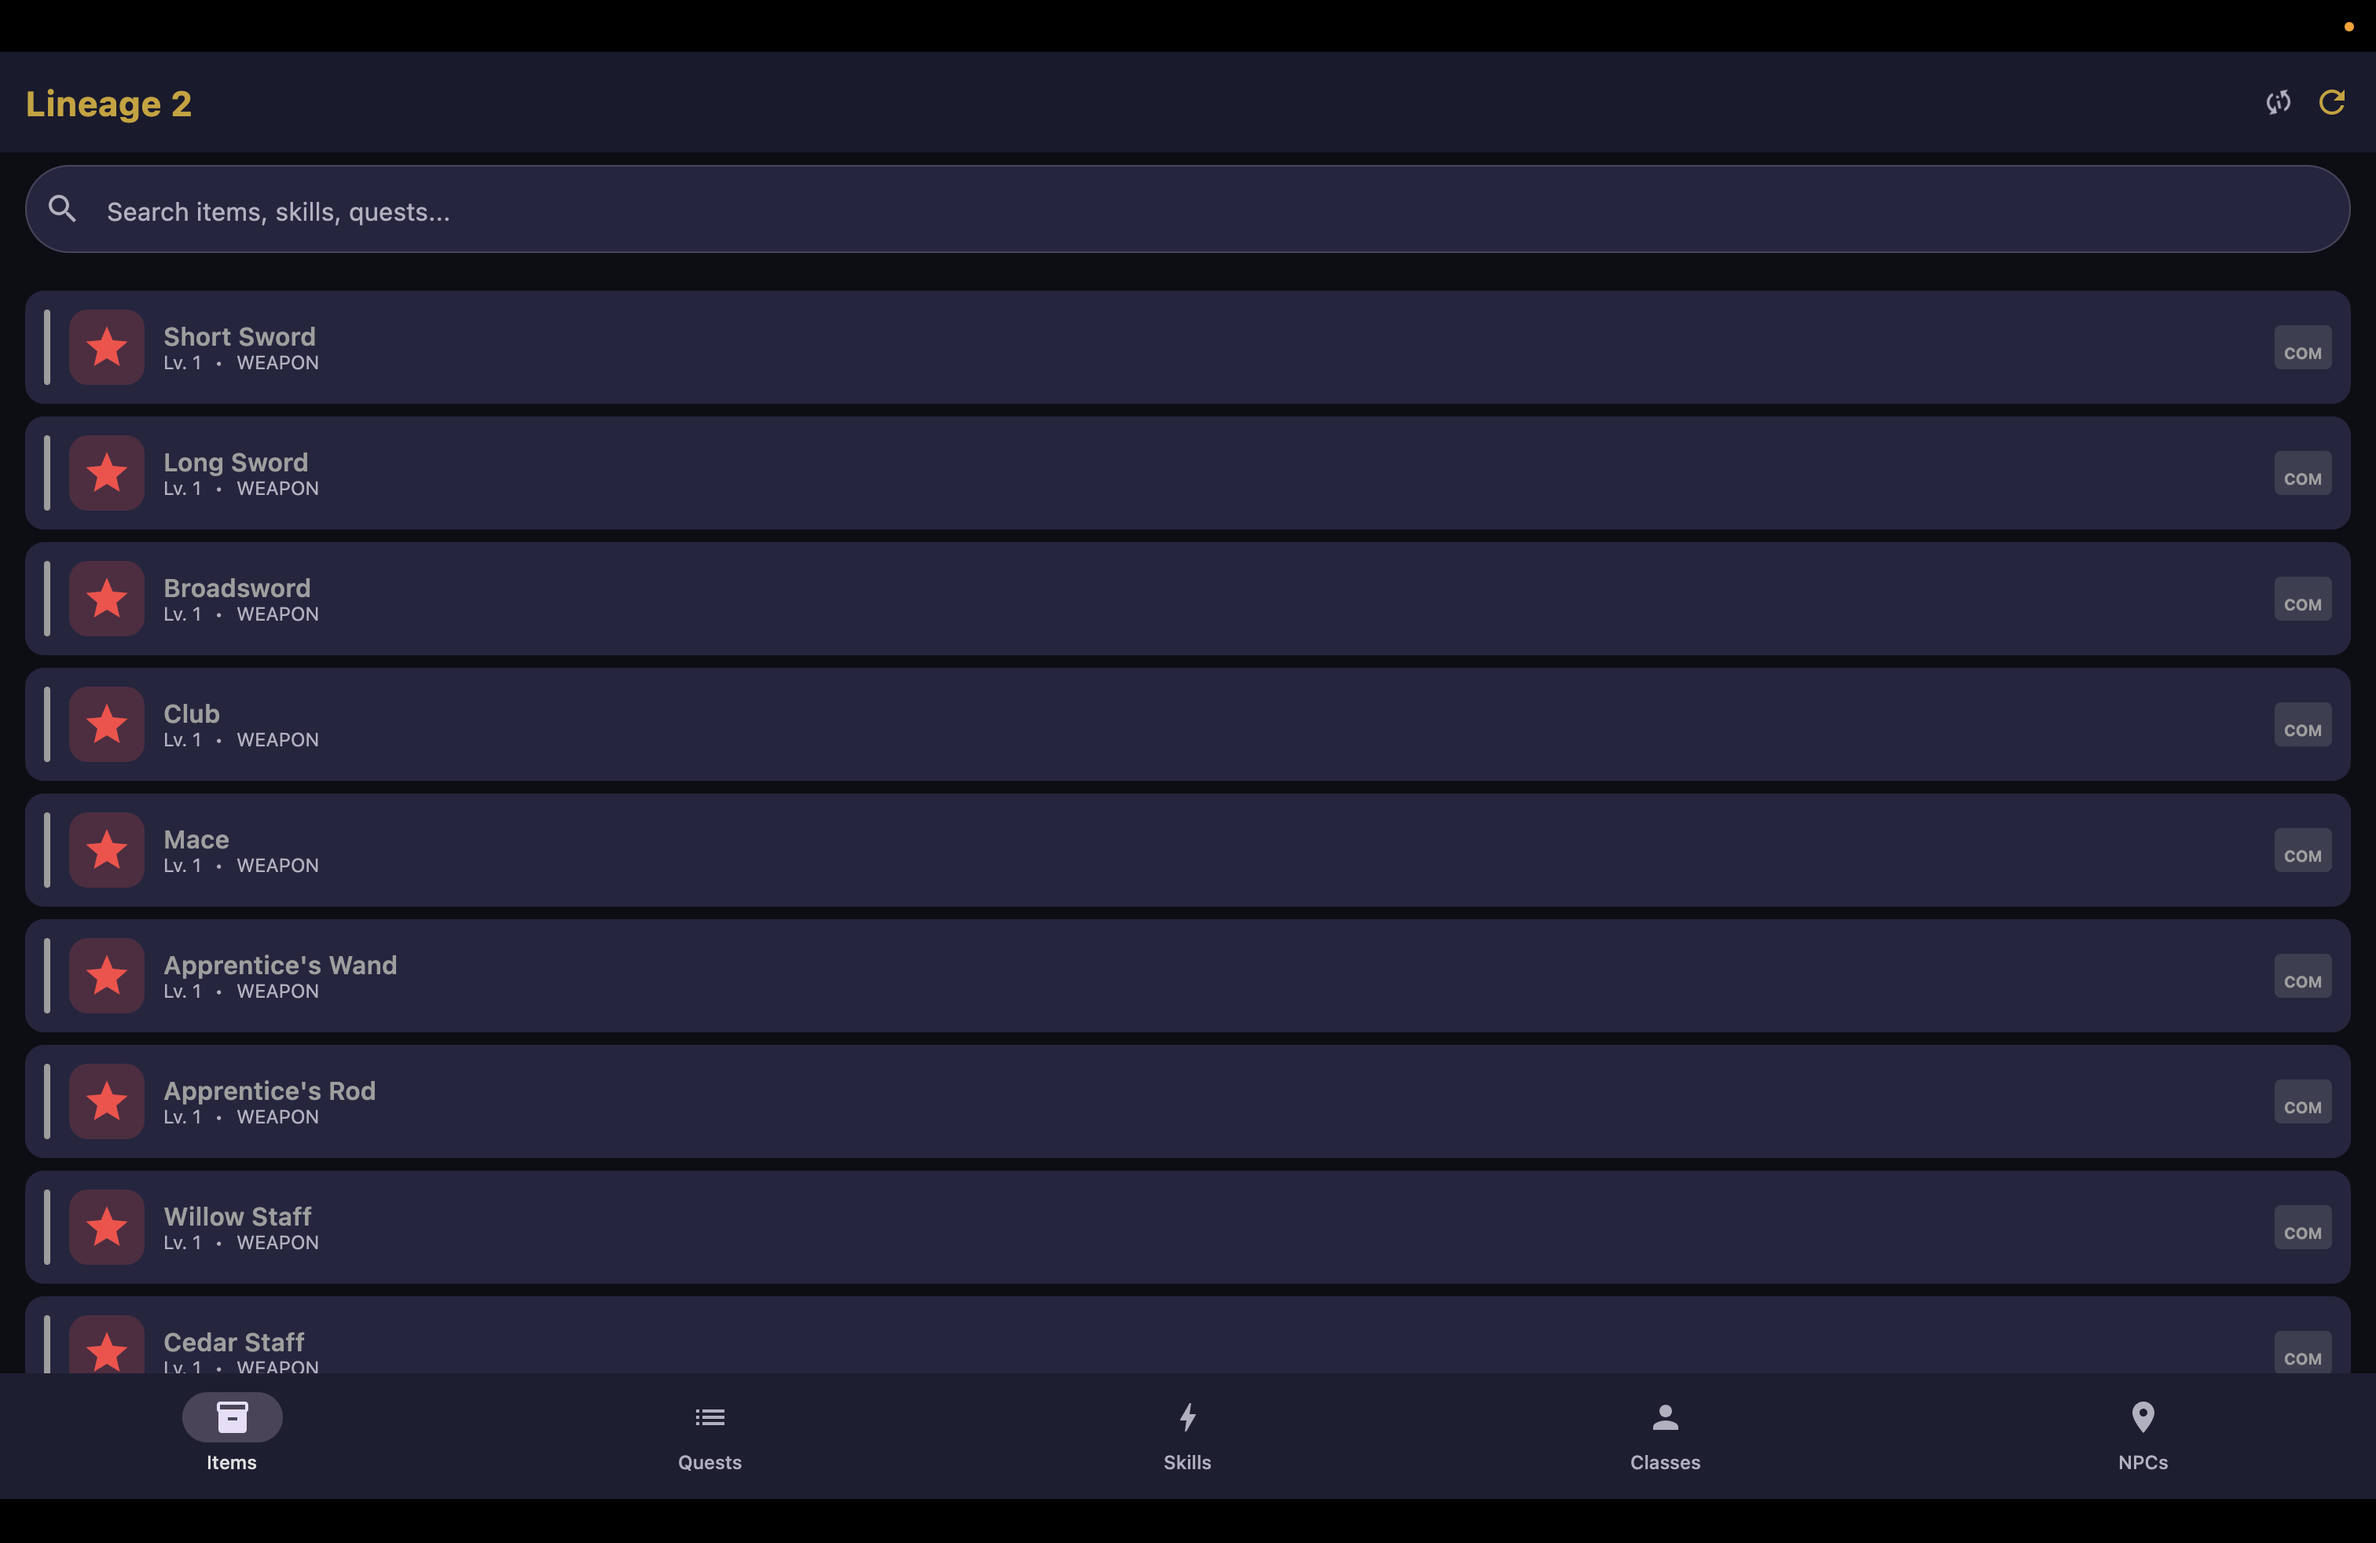
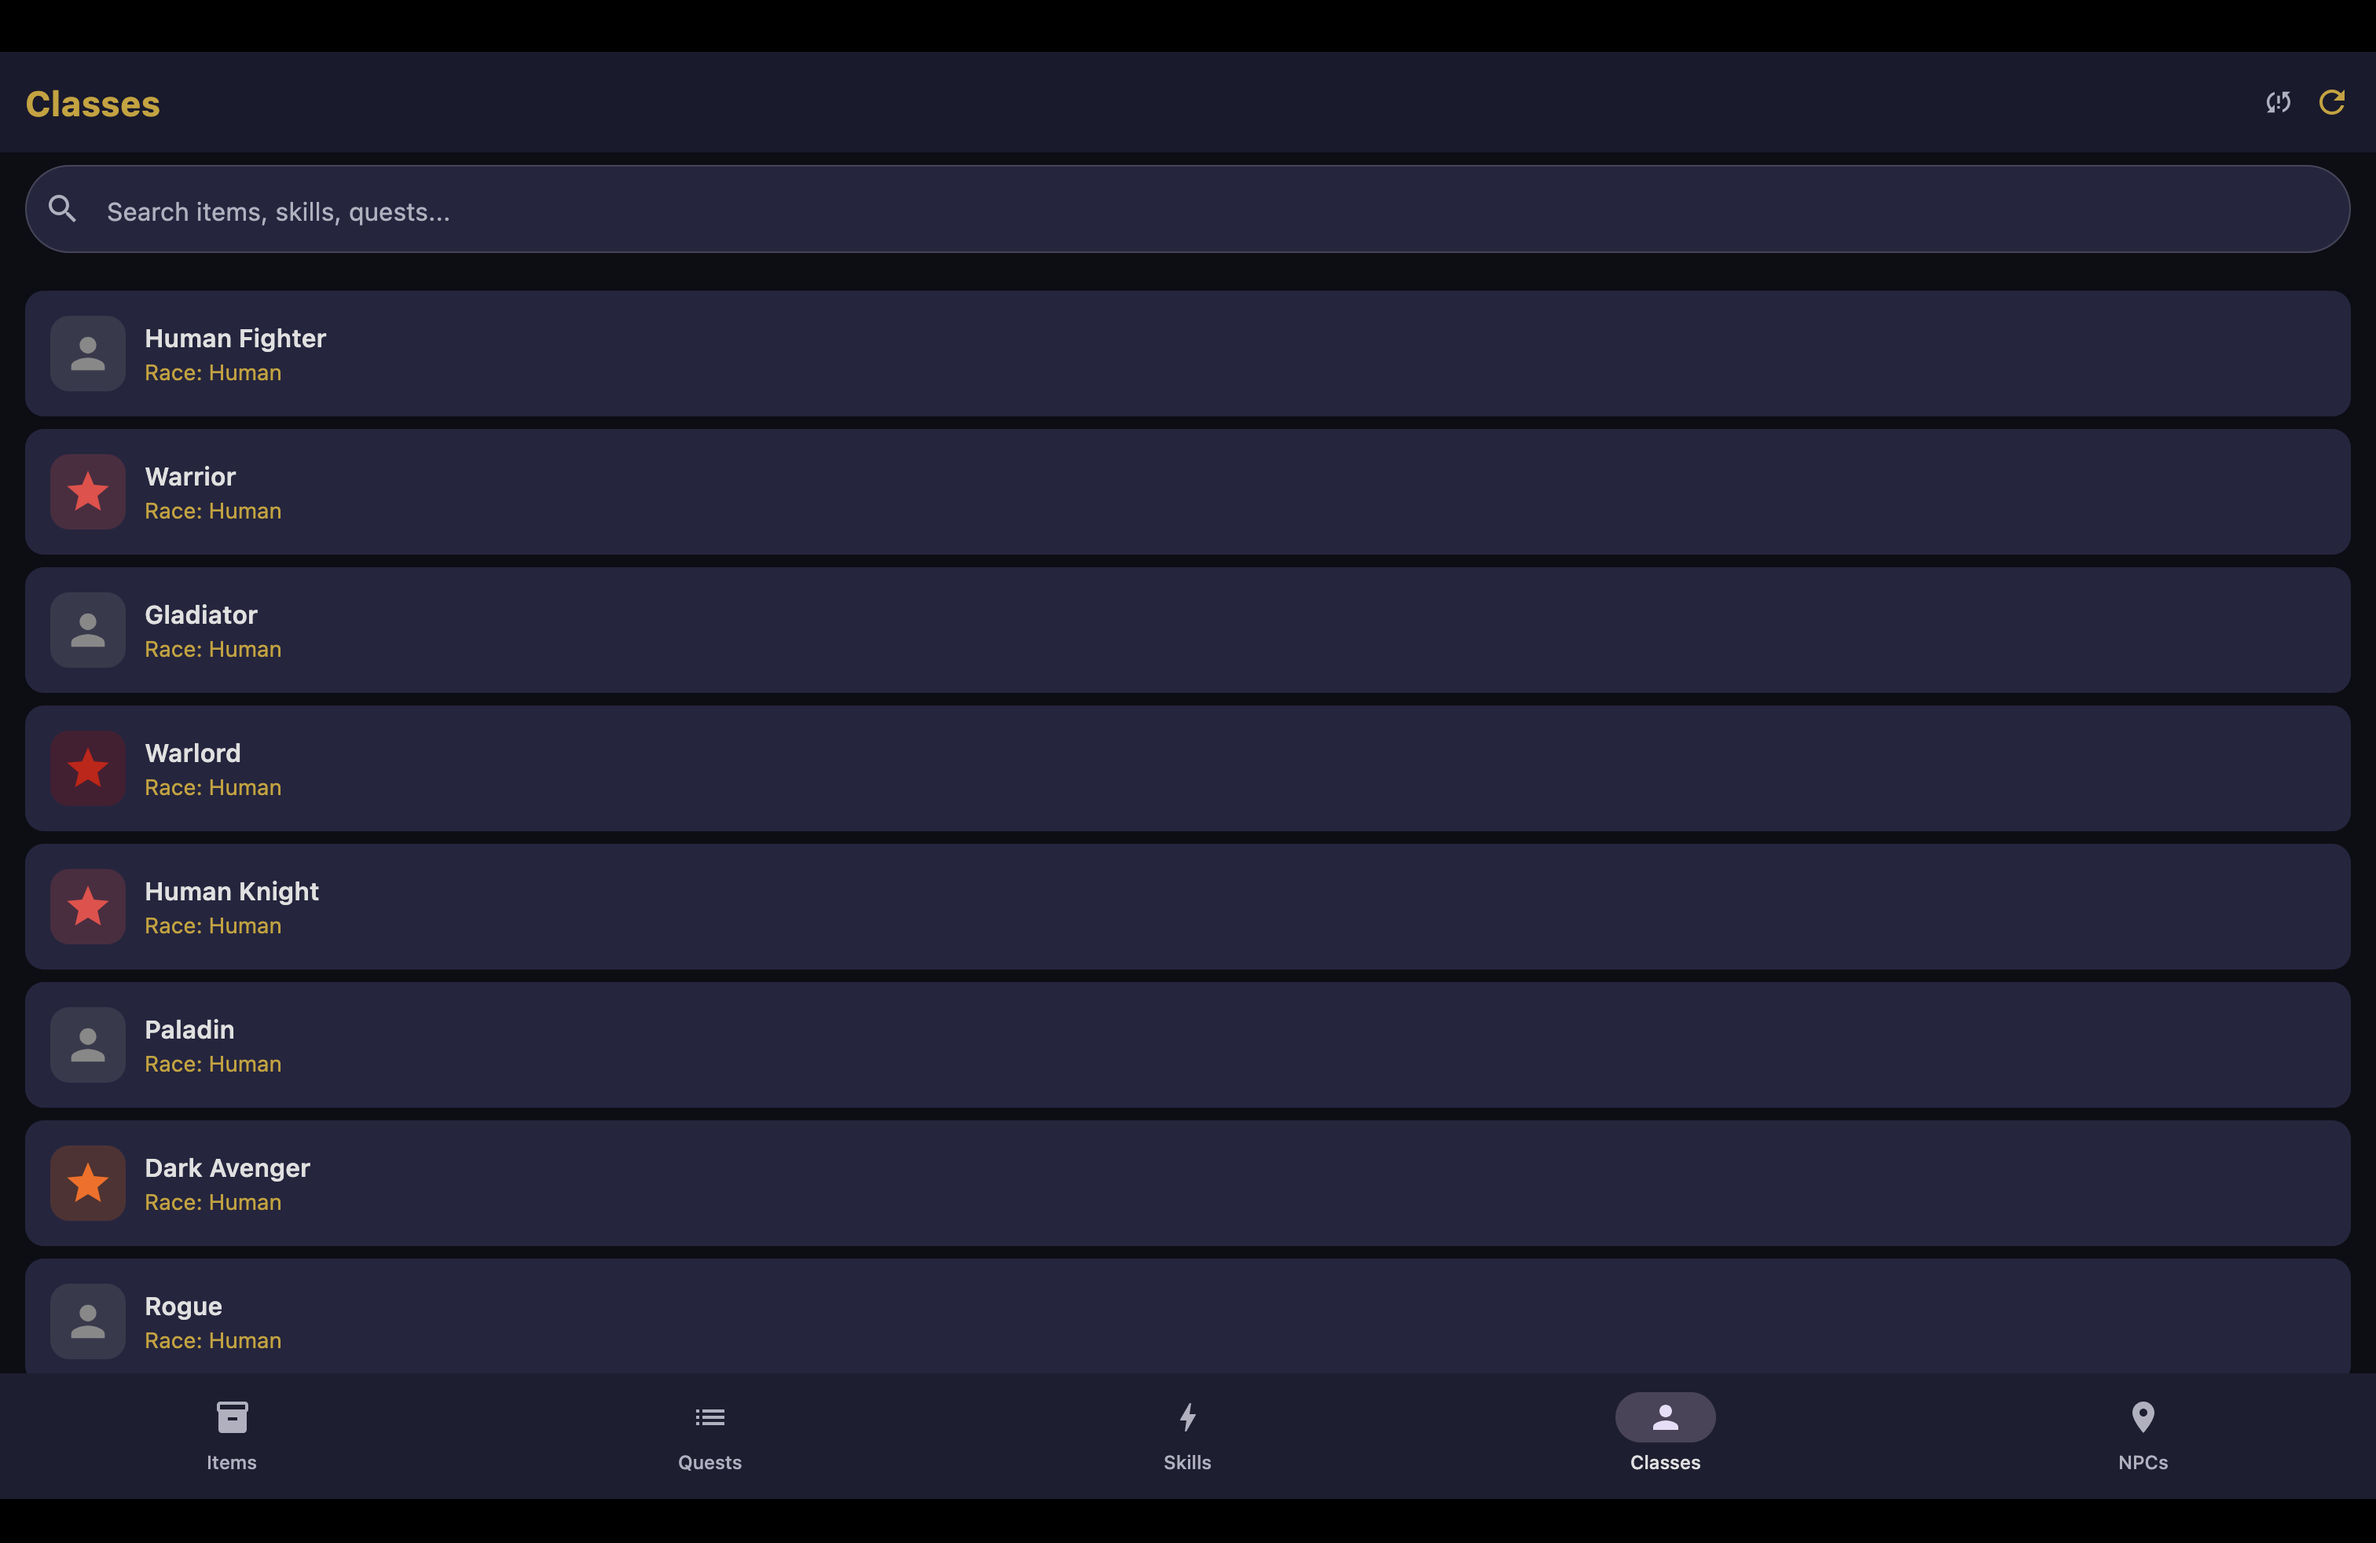
feat: add Classes screenshot to README

Changed region(s): [[0.0, 0.1864, 0.9947, 0.9628], [0.6839, 0.9007, 0.746, 0.9628], [0.0, 0.0621, 0.0622, 0.0932]]

diff --git a/README.md b/README.md
@@ -20,6 +20,11 @@ A comprehensive companion guide app for Lineage 2 (Interlude chronicle) with off
   <em>Desktop — Quests with type-based icons</em>
 </p>
 
+<p align="center">
+  <img src="screenshots/desktop_classes.png" width="800" alt="Desktop Classes Screen"/><br/>
+  <em>Desktop — Classes with class-type icons</em>
+</p>
+
 ### Mobile Application
 <p align="center">
   <img src="screenshots/splash0.jpg" width="200" alt="Splash Screen"/>
